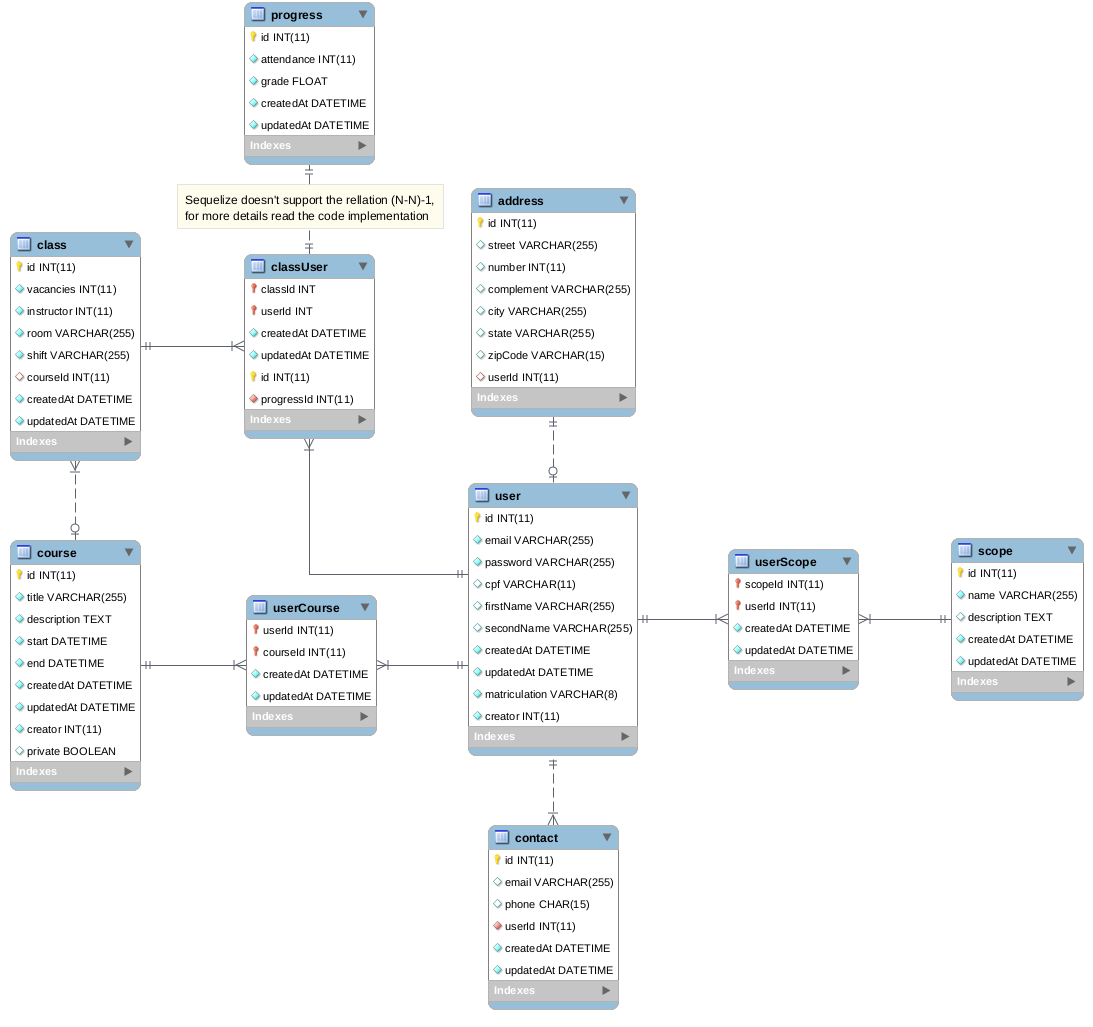
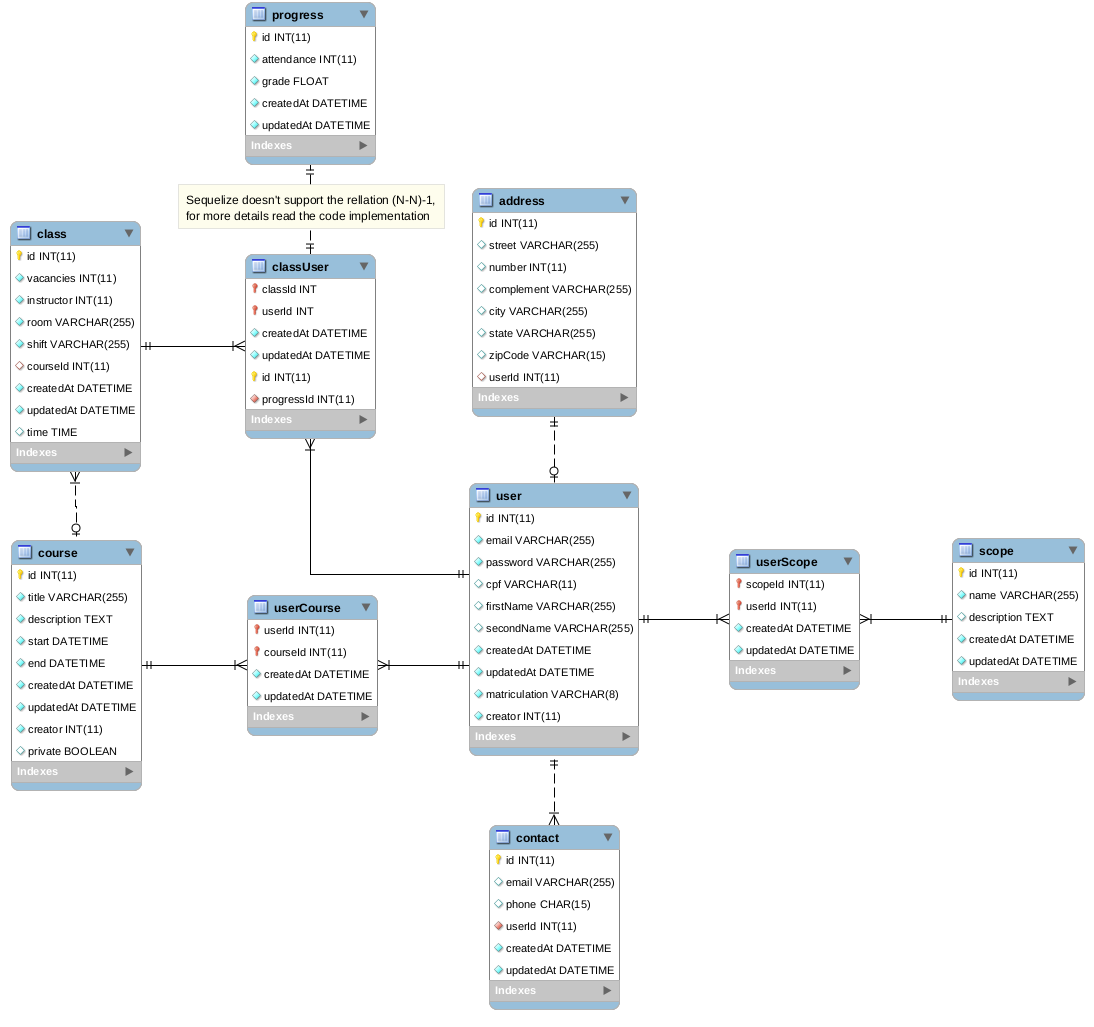
Class time added

diff --git a/graphql/class/resolvers.js b/graphql/class/resolvers.js
@@ -39,7 +39,8 @@ const createClass = async (args, req) => {
       instructor: args.params.instructor,
       room: args.params.room,
       shift: args.params.shift,
-      courseId: args.params.courseId
+      courseId: args.params.courseId,
+      time: args.params.time
     };
 
     let classCreated = await db.class.create(_class);

diff --git a/models/_class.js b/models/_class.js
@@ -23,6 +23,10 @@ module.exports = (sequelize, DataTypes) => {
       shift: {
         type: DataTypes.STRING,
         allowNull: false
+      },
+      time: {
+        type: DataTypes.TIME,
+        allowNull: false
       }
     },
     {

diff --git a/graphql/class/schema.js b/graphql/class/schema.js
@@ -16,6 +16,7 @@ module.exports = `
         room: String!
         shift: String!
         courseId: Int!
+        time: String!
     }
 
     input ClassUpdateInput {
